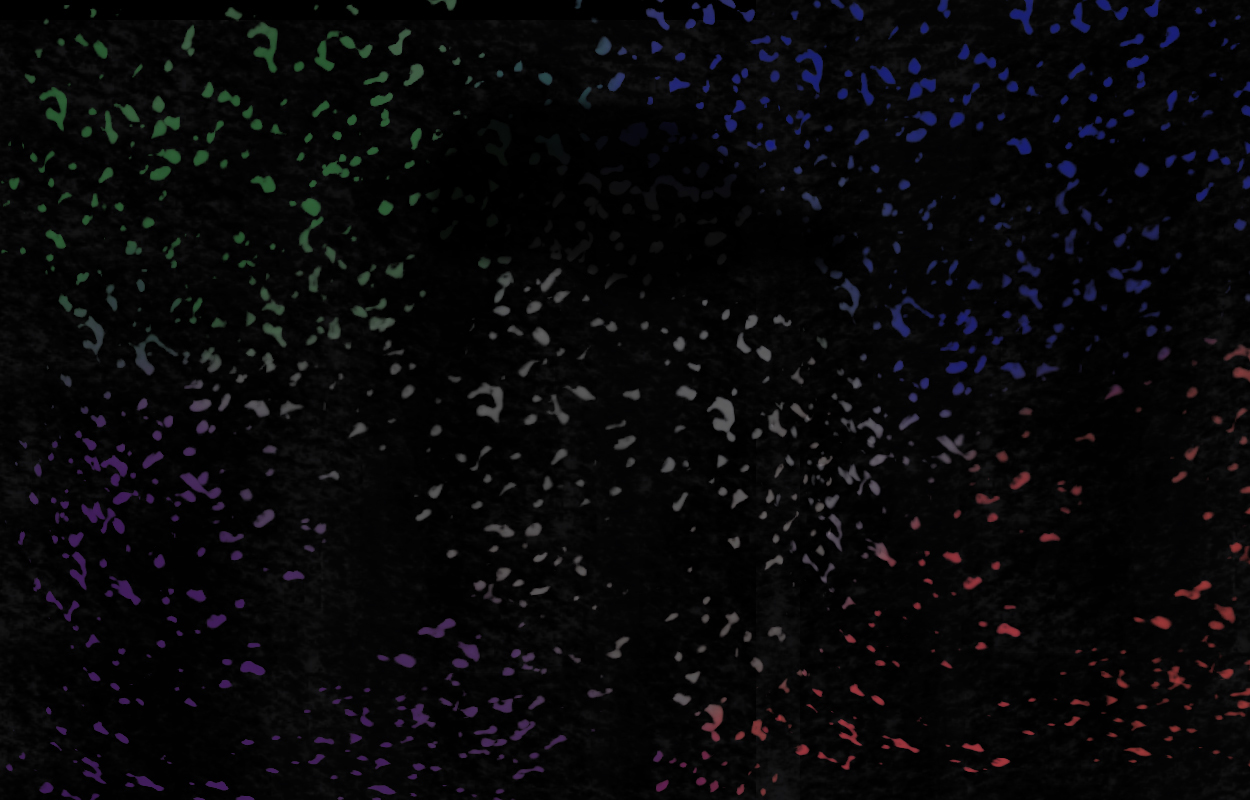
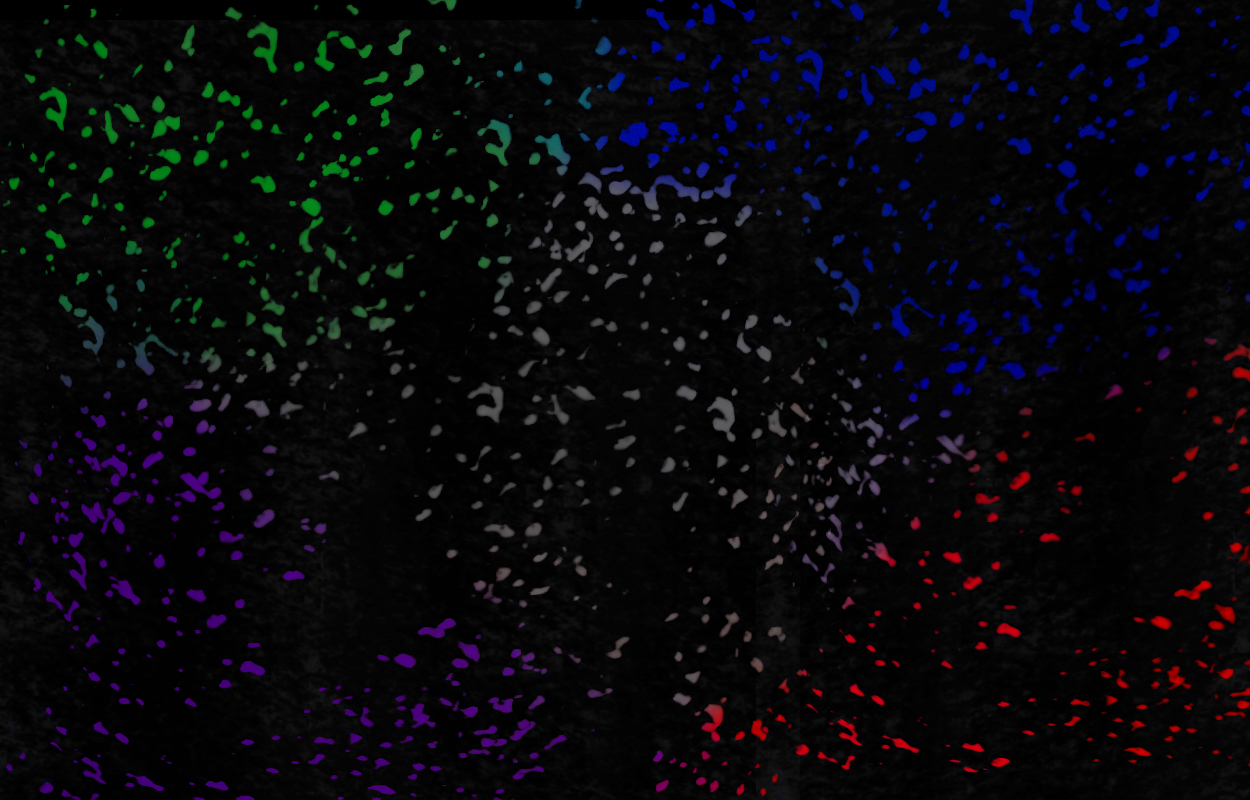
vibrance

diff --git a/index.css b/index.css
@@ -1,7 +1,7 @@
 @import url(https://fonts.googleapis.com/css?family=Marcellus+SC);
 body{
   background-color: black;
-   background-image: url(img/heroicbackground.jpg);
+   background-image: url(img/heroicbackground2.jpg);
 background-repeat: no-repeat;
 background-size: 100%;
 background-position: down;
